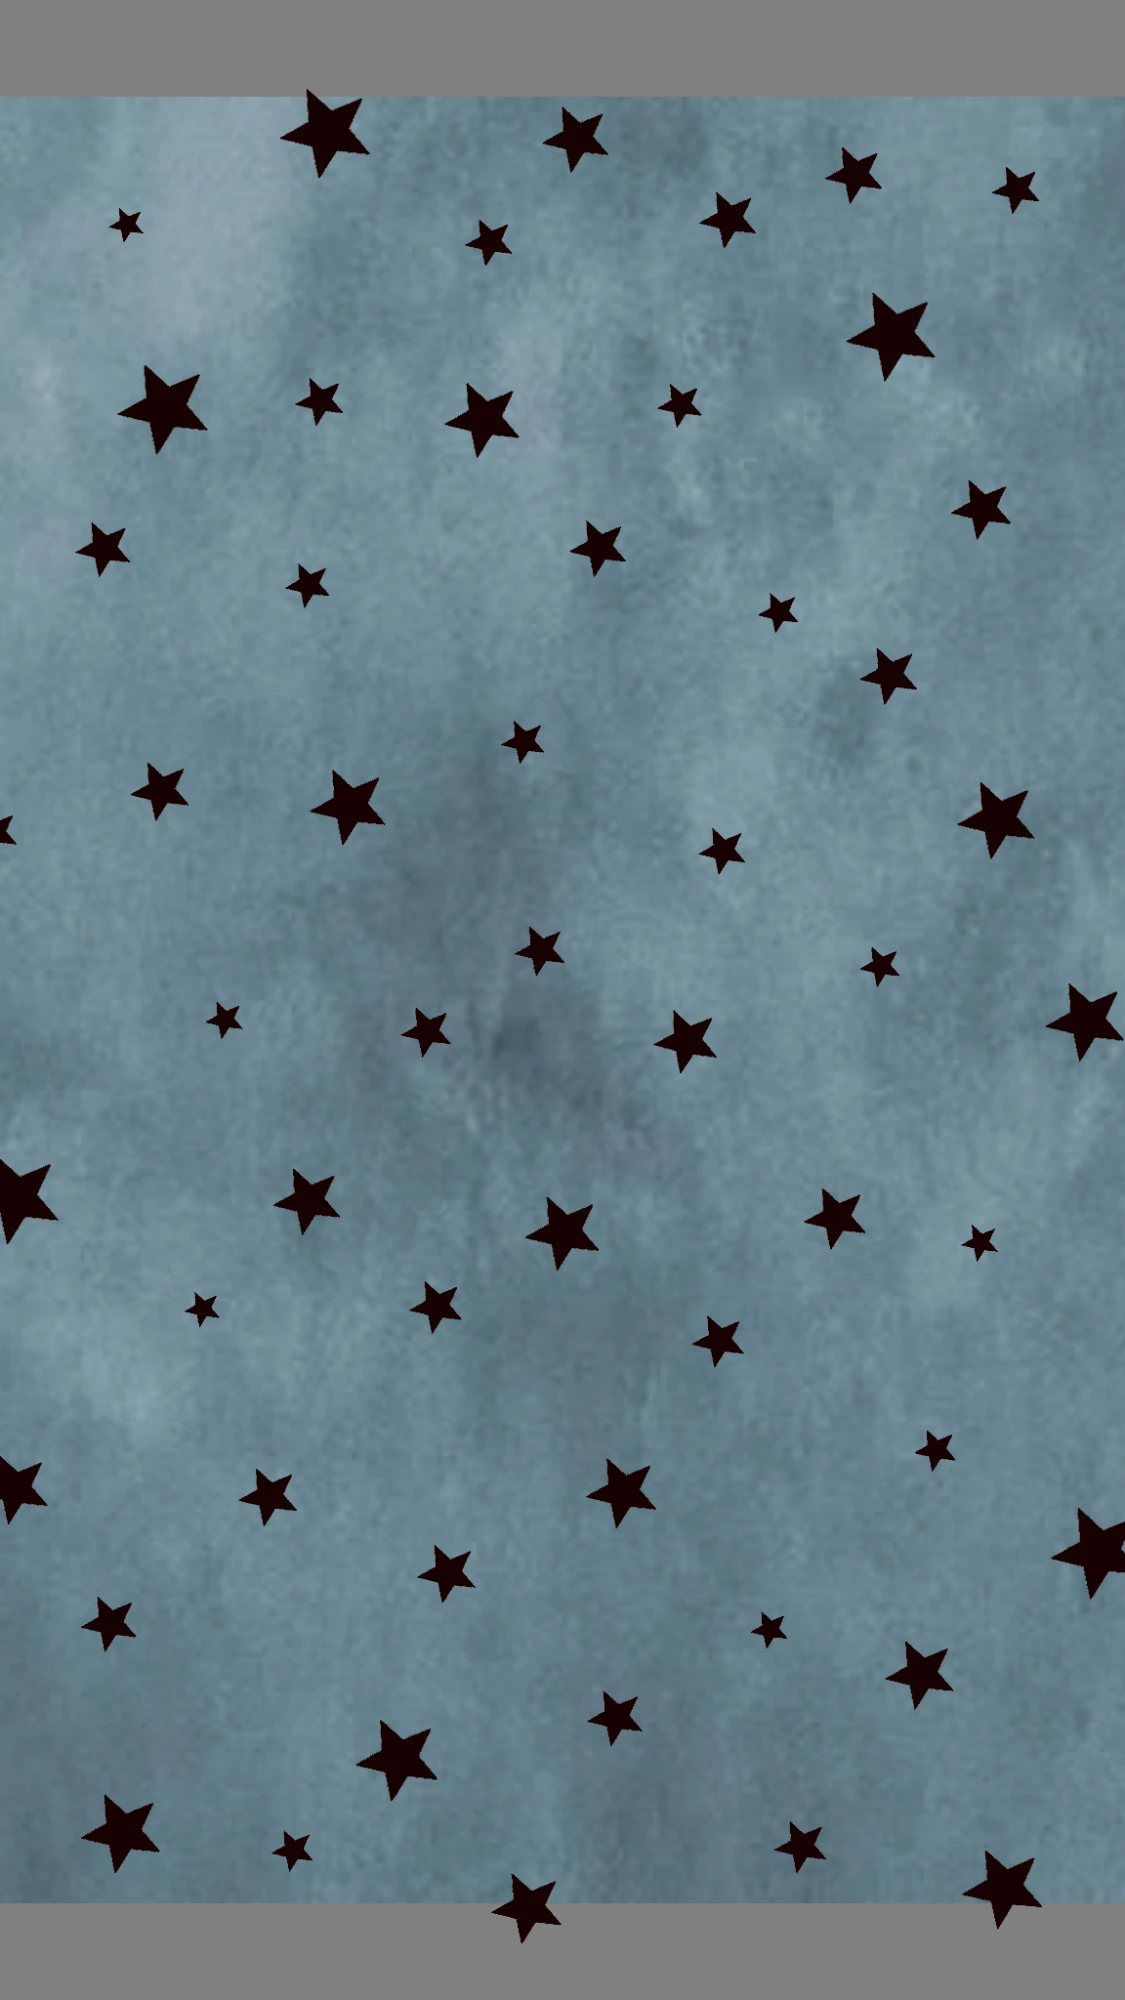
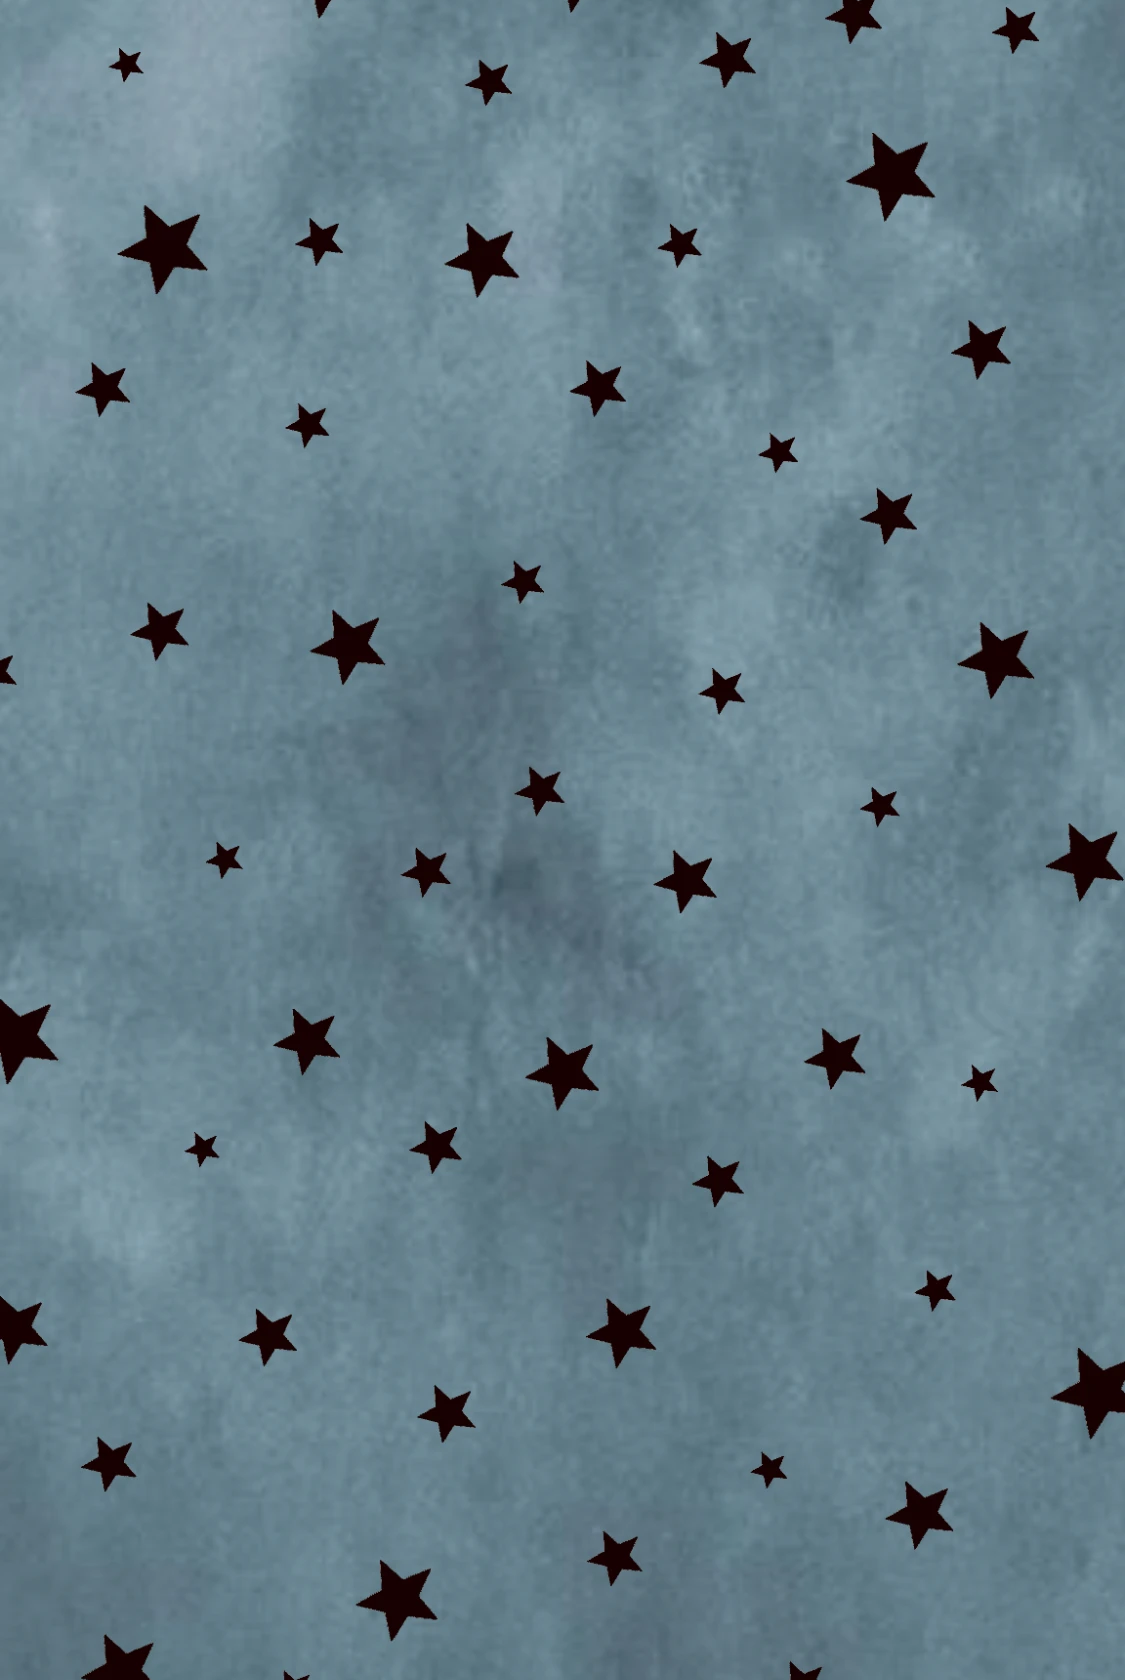
Rework pattern tiling to target repeat count; bigger, vertically-centered swatch column; fix blue-stars border
Tiling scale: replaced STRIP_PATTERN_TILE_RATIO (a width fraction of one
slot) with STRIP_PATTERN_TARGET_REPEATS (currently 2.5) -- the tile size
is now derived from the strip's actual height divided by that count, so
each pattern repeats 2-3 times down the strip with real visible detail
instead of many small busy repeats. Introduced STRIP_TOTAL_RATIO_UNITS,
shared between PhotoStrip.layout() and the pattern pre-scaling setup, so
the composed image's (fixed) total height and the on-screen (responsive)
total height both feed the same math consistently.

Asset fix: blue-stars.png had a solid grey border baked into the top and
bottom of the source file, which showed up as a repeating grey seam once
tiled. Cropped the source file itself (with a safety margin verified by
sampling pixels near the new edges), since it's a defect in that one
asset rather than something the general tiling logic should work around.

Swatch picker: bigger swatches (38px -> 60px) and repositioned from a
bottom-right row to a single column, vertically centered on the screen,
right-aligned. Confirmed centered at both a short test viewport and a
realistic 1280x800 size, with no overlap with the help button or style
label at either size. No JS changes needed for the dwell gesture -- it
already reads each swatch's live position/size every frame.

diff --git a/script.js b/script.js
@@ -190,6 +190,14 @@ const STRIP_TOP_MARGIN_RATIO = 0.12;
 const STRIP_GAP_RATIO = 0.1;
 const STRIP_BOTTOM_MARGIN_RATIO = 0.35;
 
+// The strip's total height, in the same "multiples of one slot" units --
+// shared by PhotoStrip.layout() (on-screen, slotSize = window.innerHeight
+// / this) and the pattern-tiling setup below (composed image, whose total
+// height is always STRIP_COMPOSE_SLOT_SIZE * this, since it's always 4
+// fixed-ratio photos).
+const STRIP_TOTAL_RATIO_UNITS =
+  STRIP_TOP_MARGIN_RATIO + STRIP_SLOT_COUNT + STRIP_GAP_RATIO * (STRIP_SLOT_COUNT - 1) + STRIP_BOTTOM_MARGIN_RATIO;
+
 const STRIP_COMPOSE_SLOT_SIZE = 480; // px -- square, both on-screen and here
 const STRIP_COMPOSE_BG = "#f5f0e6"; // fallback, used only if the selected pattern image hasn't loaded yet
 const STRIP_COMPOSE_BORDER = "#d9d0ba";
@@ -215,40 +223,45 @@ const STRIP_PATTERNS = [
 ];
 const PATTERN_DWELL_MS = 500; // both index fingertips together on one swatch
 
-// The source pattern images are much higher-resolution than the strip is
-// wide, so tiling them at native size shows only a tiny, zoomed-in crop of
-// one repeat (looks "stretched" even though nothing is actually being
-// scaled). This is the one knob to retune that: each tile's on-screen
-// width is this fraction of one photo slot's size, so a handful of
-// repeats fit across the strip's width like real wallpaper. Tune this
-// after actually looking at the result -- smaller = more, tinier repeats;
-// larger = fewer, bigger ones.
-const STRIP_PATTERN_TILE_RATIO = 0.16;
+// How many times each pattern repeats vertically down the strip's full
+// height -- the one knob to retune if a pattern looks too small/busy (too
+// many repeats) or too large/loses detail (too few). 2-3 keeps enough of
+// the pattern's actual texture/motif visible per repeat instead of
+// reducing it to visual noise.
+const STRIP_PATTERN_TARGET_REPEATS = 2.5;
 
 // Loaded once at startup, keyed by path -- see preloadStripPatterns().
 const stripPatternImages = {}; // path -> full-res Image
-const stripPatternTileCanvases = {}; // path -> small canvas pre-scaled to STRIP_PATTERN_TILE_RATIO, for ctx.createPattern
+const stripPatternTileCanvases = {}; // path -> small canvas pre-scaled per STRIP_PATTERN_TARGET_REPEATS, for ctx.createPattern
 
 function preloadStripPatterns() {
+  // The composed strip's total height is fixed (always 4 photos at
+  // STRIP_COMPOSE_SLOT_SIZE's ratios), so the target tile height for it
+  // can be computed once, up front, rather than per-composition.
+  const composedStripHeight = STRIP_COMPOSE_SLOT_SIZE * STRIP_TOTAL_RATIO_UNITS;
+  const tileHeight = composedStripHeight / STRIP_PATTERN_TARGET_REPEATS;
+
   for (const path of STRIP_PATTERNS) {
     const img = new Image();
     img.onload = () => {
-      stripPatternTileCanvases[path] = scalePatternForTiling(img, STRIP_COMPOSE_SLOT_SIZE * STRIP_PATTERN_TILE_RATIO);
+      stripPatternTileCanvases[path] = scalePatternForTiling(img, tileHeight);
     };
     img.src = path;
     stripPatternImages[path] = img;
   }
 }
 
-// Draws `img` down to a small canvas `targetWidth` wide (aspect-preserved)
-// -- this smaller canvas, not the original full-res image, is what gets
-// handed to ctx.createPattern for the composed strip, so each repeat
+// Draws `img` down to a small canvas `targetHeight` tall (aspect-preserved
+// width) -- this smaller canvas, not the original full-res image, is what
+// gets handed to ctx.createPattern for the composed strip, so each repeat
 // actually reads as the intended tile size instead of a native-resolution
-// crop of the source.
-function scalePatternForTiling(img, targetWidth) {
-  const aspect = img.naturalHeight / img.naturalWidth;
-  const w = Math.max(1, Math.round(targetWidth));
-  const h = Math.max(1, Math.round(targetWidth * aspect));
+// crop of the source. Scaling by height (not width) is what lets
+// STRIP_PATTERN_TARGET_REPEATS directly control "how many times down the
+// strip" regardless of a pattern's own aspect ratio.
+function scalePatternForTiling(img, targetHeight) {
+  const aspect = img.naturalWidth / img.naturalHeight;
+  const h = Math.max(1, Math.round(targetHeight));
+  const w = Math.max(1, Math.round(targetHeight * aspect));
   const canvas = document.createElement("canvas");
   canvas.width = w;
   canvas.height = h;
@@ -769,9 +782,7 @@ const PhotoStrip = {
   // properties, so the strip's CSS always exactly spans top to bottom
   // with square slots, at any viewport size.
   layout() {
-    const totalRatioUnits =
-      STRIP_TOP_MARGIN_RATIO + STRIP_SLOT_COUNT + STRIP_GAP_RATIO * (STRIP_SLOT_COUNT - 1) + STRIP_BOTTOM_MARGIN_RATIO;
-    const slotSize = window.innerHeight / totalRatioUnits;
+    const slotSize = window.innerHeight / STRIP_TOTAL_RATIO_UNITS;
     const sideMargin = slotSize * STRIP_SIDE_MARGIN_RATIO;
     const topMargin = slotSize * STRIP_TOP_MARGIN_RATIO;
     const gap = slotSize * STRIP_GAP_RATIO;
@@ -788,11 +799,12 @@ const PhotoStrip = {
     style.setProperty("--strip-bottom-margin", `${bottomMargin}px`);
     style.setProperty("--strip-gap", `${gap}px`);
     style.setProperty("--strip-width", `${width}px`);
-    // Keeps the on-screen pattern tile proportional to the (responsive)
-    // slot size, using the same ratio the composed/downloaded strip uses
-    // relative to its own fixed-resolution slot size -- see
-    // STRIP_PATTERN_TILE_RATIO for why this exists at all.
-    style.setProperty("--strip-pattern-tile-size", `${slotSize * STRIP_PATTERN_TILE_RATIO}px`);
+    // The strip's total height IS window.innerHeight by construction
+    // (slotSize * STRIP_TOTAL_RATIO_UNITS === window.innerHeight), so
+    // this is the on-screen equivalent of the same tile-height math
+    // preloadStripPatterns() uses for the composed image -- see
+    // STRIP_PATTERN_TARGET_REPEATS for what's actually being tuned here.
+    style.setProperty("--strip-pattern-tile-size", `${window.innerHeight / STRIP_PATTERN_TARGET_REPEATS}px`);
   },
 
   _renderEmptySlot(index) {

diff --git a/style.css b/style.css
@@ -123,31 +123,24 @@ html, body {
    right, mirroring the help button's placement on the opposite corner. */
 #pattern-picker {
   position: fixed;
-  bottom: 1rem;
+  top: 50%;
   right: 1rem;
+  transform: translateY(-50%);
   z-index: 15;
   display: flex;
-  flex-wrap: wrap;
-  justify-content: flex-end;
-  gap: 0.5rem;
-  /* Caps how far left the row can grow -- wraps upward onto another row
-     instead of creeping indefinitely as more patterns get added later. */
-  max-width: min(60vw, 320px);
-}
-
-/* On narrow viewports there isn't room for both the style label and a
-   full swatch row on the same bottom line -- stack the swatches above it
-   instead of letting the two collide. */
-@media (max-width: 700px) {
-  #pattern-picker {
-    bottom: 3.4rem;
-  }
+  flex-direction: column;
+  align-items: flex-end;
+  gap: 0.6rem;
+  /* Safety net if the pattern list ever grows enough to not fit vertically
+     centered -- scrolls instead of running into the top/bottom UI. */
+  max-height: 80vh;
+  overflow-y: auto;
 }
 
 .pattern-swatch {
   position: relative;
-  width: 38px;
-  height: 38px;
+  width: 60px;
+  height: 60px;
   border-radius: 50%;
   border: 2px solid var(--border);
   background-size: cover;
@@ -155,6 +148,7 @@ html, body {
   background-color: var(--panel);
   padding: 0;
   cursor: pointer;
+  flex: 0 0 auto;
   --dwell-progress: 0;
 }
 
@@ -165,12 +159,12 @@ html, body {
 
 .pattern-swatch-ring {
   position: absolute;
-  inset: -5px;
+  inset: -6px;
   border-radius: 50%;
   pointer-events: none;
   background: conic-gradient(var(--ok, #4ec9b0) calc(var(--dwell-progress, 0) * 360deg), rgba(255, 255, 255, 0.15) 0deg);
-  -webkit-mask: radial-gradient(farthest-side, transparent calc(100% - 3px), #000 calc(100% - 3px));
-  mask: radial-gradient(farthest-side, transparent calc(100% - 3px), #000 calc(100% - 3px));
+  -webkit-mask: radial-gradient(farthest-side, transparent calc(100% - 4px), #000 calc(100% - 4px));
+  mask: radial-gradient(farthest-side, transparent calc(100% - 4px), #000 calc(100% - 4px));
 }
 
 #help-button:hover {
@@ -234,13 +228,13 @@ html, body {
   gap: var(--strip-gap, 10px);
   /* --strip-pattern is set by updateOnScreenStripPattern() whenever the
      selected swatch changes; the gradient is just the pre-JS fallback.
-     --strip-pattern-tile-size (from PhotoStrip.layout()) keeps each
-     repeat at a real "wallpaper" scale instead of the pattern's native,
-     much-larger-than-the-strip resolution -- without this the image just
-     shows one zoomed-in crop of itself, which reads as stretched. */
+     --strip-pattern-tile-size (from PhotoStrip.layout(), a *height*) sizes
+     each repeat so the pattern shows real detail -- STRIP_PATTERN_TARGET_
+     REPEATS controls how many times it repeats down the strip's height;
+     width is auto so each pattern's own aspect ratio is preserved. */
   background: var(--strip-pattern, linear-gradient(180deg, #faf6ec, #efe8d6));
   background-repeat: repeat;
-  background-size: var(--strip-pattern-tile-size, 72px) auto;
+  background-size: auto var(--strip-pattern-tile-size, 200px);
   box-shadow: 0 14px 34px rgba(0, 0, 0, 0.5), 0 3px 8px rgba(0, 0, 0, 0.35);
   box-sizing: border-box;
 }

diff --git a/index.html b/index.html
@@ -9,7 +9,7 @@
        time script.js/style.css change, or returning visitors' browsers
        can silently keep serving an old cached copy for up to 10 minutes
        (or longer, depending on the browser) after a new deploy. -->
-  <link rel="stylesheet" href="style.css?v=9" />
+  <link rel="stylesheet" href="style.css?v=10" />
 </head>
 <body>
   <video id="webcam-video" autoplay muted playsinline></video>
@@ -130,6 +130,6 @@
        without needing to complete a pinch. -->
   <button id="size-gesture-cancel" type="button" class="btn-secondary size-gesture-cancel-btn" hidden>Cancel</button>
 
-  <script src="script.js?v=9" type="module"></script>
+  <script src="script.js?v=10" type="module"></script>
 </body>
 </html>

diff --git a/README.md b/README.md
@@ -61,18 +61,19 @@ with a left-hand pinch), while the rest of the (color) video stays normal.
   caption in the bottom margin, regardless of pattern. Each capture fills
   the next slot; empty slots show a dimmed, numbered placeholder so you
   can see how many shots remain.
-- **Strip background pattern** — a row of round swatches, bottom-right,
-  one per available pattern: red stripes, blue stars, pink watercolor
-  stars, Starry Night, pink glass tile, and leopard print (more can be
-  added just by listing more image paths). Click a swatch to select it
+- **Strip background pattern** — a column of large round swatches,
+  vertically centered along the right edge of the screen, one per
+  available pattern: red stripes, blue stars, pink watercolor stars,
+  Starry Night, pink glass tile, and leopard print (more can be added
+  just by listing more image paths). Click a swatch to select it
   directly, or hover **BOTH** index fingertips (one from each hand) over
   the same swatch together for half a second — a radial ring fills in
   around it as feedback, and moving either fingertip off before it
   completes cancels the selection. Whichever pattern is selected fills
-  the strip's background tiled at a small, wallpaper-like scale (not
-  stretched or zoomed in), and applies to whichever strip is actually
-  composed next — changing it mid-round doesn't retroactively affect a
-  strip already in progress.
+  the strip's background tiled at a "wallpaper" scale (2-3 repeats down
+  the strip's height, not stretched or reduced to visual noise), and
+  applies to whichever strip is actually composed next — changing it
+  mid-round doesn't retroactively affect a strip already in progress.
 - **Save a photo at a custom size** — every filled strip slot has a small
   save button in its corner. Click it to open a size picker (prefilled
   with that photo's actual dimensions) where you can type whatever
@@ -303,30 +304,45 @@ photo strip + auto-save are all fully implemented:
   the selection changes
 - The source pattern images are much higher-resolution than the strip is
   wide, so tiling them at native size showed only a tiny, zoomed-in crop
-  of one repeat rather than a proper small repeating motif (looked
-  "stretched" even though nothing was actually being scaled up).
-  `STRIP_PATTERN_TILE_RATIO` (one constant, near `STRIP_PATTERNS`) fixes
-  this: each tile's width is that fraction of one photo slot's size, so a
-  handful of repeats fit across the strip like real wallpaper.
+  of one repeat rather than a proper repeating motif with visible detail
+  (looked "stretched" even though nothing was actually being scaled up).
+  `STRIP_PATTERN_TARGET_REPEATS` (one constant, near `STRIP_PATTERNS`,
+  currently 2.5) fixes this directly in the unit that actually matters:
+  how many times a pattern repeats *down the strip's height* — each
+  tile's height is `stripHeight / STRIP_PATTERN_TARGET_REPEATS`, width
+  auto-scaled to preserve the source's own aspect ratio.
   `scalePatternForTiling()` pre-scales each pattern down to a small
-  offscreen canvas once (cached in `stripPatternTileCanvases`, keyed by
-  path) for the composed/downloaded strip, and a matching
-  `--strip-pattern-tile-size` CSS variable (set alongside the other
-  responsive sizing in `PhotoStrip.layout()`, so it stays proportional to
-  the actual on-screen slot size) drives `background-size` for the live
-  strip. All 6 patterns confirmed loading and pre-scaling correctly, each
-  selectable and each rendering as multiple clean repeats (not a single
-  zoomed-in blob) in both the live preview and a rendered composed strip —
-  including visually distinctive ones like leopard print and Starry Night,
-  where a wrong scale or a failed load would be obvious at a glance
-- The pattern-picker's swatch row and the style label both live in the
-  bottom corners, and the row grows leftward as more patterns are added
-  (it wraps and caps its width past a point, so it can't creep across the
-  whole screen) — moved the style label from bottom-center to next to the
-  strip (mirroring how `#status-bar` already avoids the strip at the top)
-  so a full row of swatches can't run into it, plus a narrow-viewport
-  media query that stacks the row above the label instead of beside it
-  when there isn't enough width for both on one line
+  offscreen canvas once, by height (cached in `stripPatternTileCanvases`,
+  keyed by path), for the composed/downloaded strip — whose total height
+  is fixed (`STRIP_COMPOSE_SLOT_SIZE * STRIP_TOTAL_RATIO_UNITS`, a shared
+  constant with `PhotoStrip.layout()` so the two never drift apart) — and
+  a matching `--strip-pattern-tile-size` CSS variable (`window.innerHeight
+  / STRIP_PATTERN_TARGET_REPEATS`, set alongside the strip's other
+  responsive sizing) drives `background-size: auto <height>` for the live
+  strip. Confirmed the math directly (on-screen tile height, repeat count,
+  and every pre-scaled canvas's dimensions all matched the constant
+  exactly) and visually (leopard print and Starry Night both show large,
+  clearly-detailed repeats — 2-3 down the strip — in a rendered composed
+  strip, not a small busy scatter)
+- `blue-stars.png` had a solid grey ~5%-of-height border baked into the
+  source file itself (top and bottom); tiling that border repeated it as
+  a visible grey seam between-repeats. Fixed by cropping the source image
+  file directly (with a safety margin past the measured edge, confirmed
+  by sampling pixels near the new edges) rather than in code, since
+  that's a defect in that one asset, not something the general tiling
+  logic should special-case
+- The pattern-picker is a single column (`flex-direction: column`),
+  vertically centered on the screen and right-aligned
+  (`top: 50%; transform: translateY(-50%); right: 1rem`), rather than a
+  row in a bottom corner — confirmed its vertical center exactly matches
+  the viewport's at both a short test-harness viewport and a realistic
+  1280×800 size, and that it doesn't overlap the (?) help button or the
+  style label at either size. Swatches themselves are 60px (up from
+  38px); the dwell-gesture hit-testing needed no code changes at all
+  since it already reads each swatch's live `getBoundingClientRect()`
+  every frame rather than assuming a fixed size or position — confirmed
+  by re-running the two-hand dwell test after the resize/reposition and
+  getting the same correct result
 - `PatternPicker.updateDwell()` runs every frame regardless of
   `CaptureState.phase` (confirmed it still arms during a forced
   `"countdown"` phase) — it requires **both** hands' index fingertips
@@ -390,9 +406,10 @@ to lock it in and start the 4-second countdown; open the console
 beforehand to see each captured photo logged with a thumbnail. You can
 click the small save button on any filled slot to download just that one
 photo at a custom size along the way, and click (or two-hand dwell on) a
-swatch bottom-right to change the strip's background pattern. Repeat 4
-times to fill the strip (docked left) and a window pops up asking how to
-save the round — the combined strip (patterned background, "/by hhan/"
+swatch in the column on the right to change the strip's background
+pattern. Repeat 4 times to fill the strip (docked left) and a window
+pops up asking how to save the round — the combined strip (patterned
+background, "/by hhan/"
 caption at the bottom), all 4 photos individually (square, or a custom
 size you draw with your hands the same way you framed the shots), or
 both — with "Done" clearing the strip for the next round.
